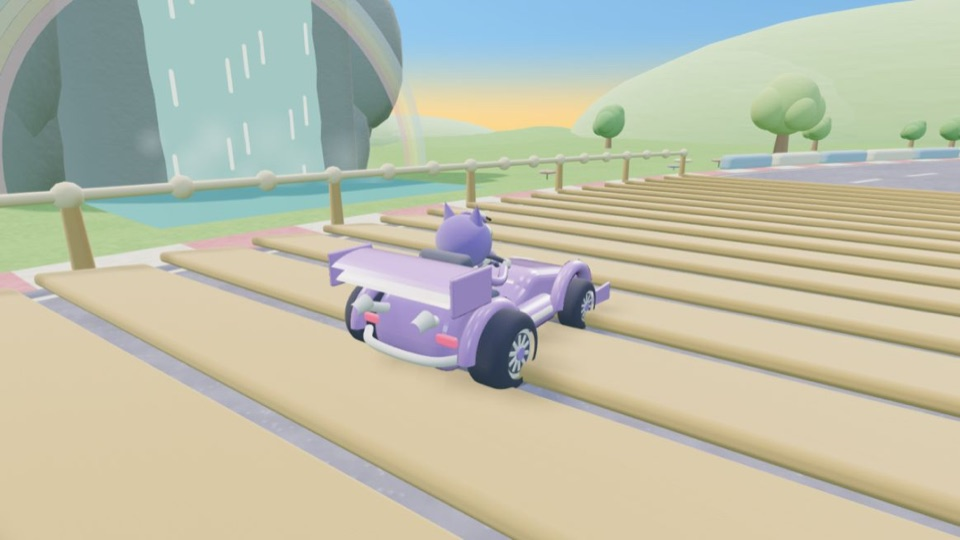
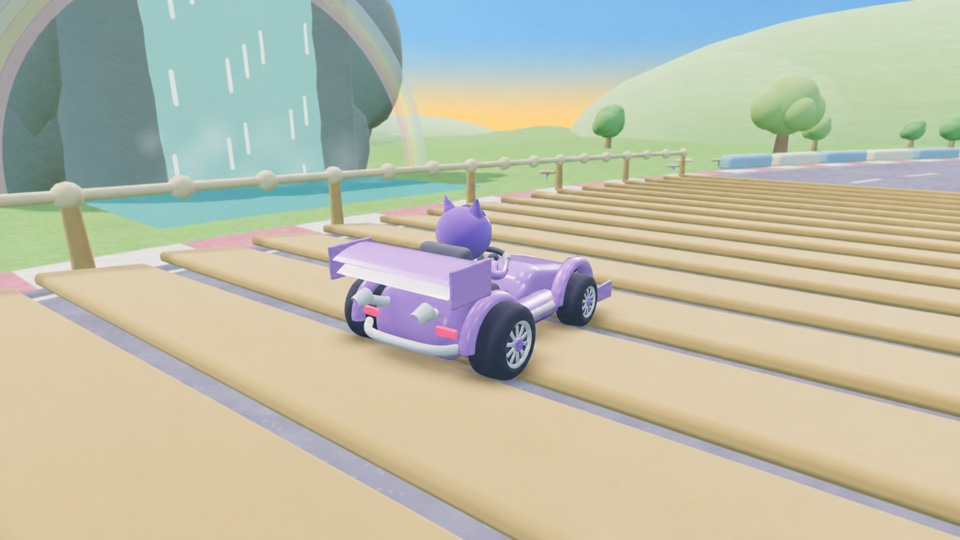
Increase third-class racing challenge and correct preview tyre clearance (#14)

Changed region(s): [[0.3438, 0.3556, 0.6562, 0.7407]]

diff --git a/docs/previews/turbo-meadow.html b/docs/previews/turbo-meadow.html
@@ -20,7 +20,10 @@ const previewIndex=track.bridgeIndex??Math.round(track.N*0.24);
 const s=track.sampleAt(previewIndex),anchor=new THREE.Object3D();anchor.position.copy(s.pos);anchor.lookAt(s.pos.clone().add(s.tangent));anchor.updateMatrixWorld();
 const world=(x,y,z)=>anchor.localToWorld(new THREE.Vector3(x,y,z));
 lighting.sun.position.copy(world(45,75,-30));lighting.sun.target.position.copy(s.pos);
-const kart=buildKart(CHARACTERS[3]);const a=track.sampleAt(previewIndex-5);kart.group.position.copy(a.pos);kart.group.rotation.y=Math.atan2(a.tangent.x,a.tangent.z);scene.add(kart.group);
+const kart=buildKart(CHARACTERS[3]);const a=track.sampleAt(previewIndex-5);kart.group.position.copy(a.pos);
+// The timber deck is centred 0.10 above the road and is 0.22 thick.
+if(track.bridgeIndex !== null) kart.group.position.y += 0.22;
+kart.group.rotation.y=Math.atan2(a.tangent.x,a.tangent.z);scene.add(kart.group);
 const tilePreview=new URLSearchParams(location.search).has('tile');if(tilePreview)document.querySelector('aside').hidden=true;
 let mode=params.get('view')==='track'?'bridge':tilePreview?'kart':'bridge';document.querySelector('#bridge').onclick=()=>mode='bridge';document.querySelector('#kart').onclick=()=>mode='kart';
 function resize(){renderer.setSize(innerWidth,innerHeight,false);camera.aspect=innerWidth/innerHeight;camera.updateProjectionMatrix();}addEventListener('resize',resize);resize();

diff --git a/turbo-tables/js/main.js b/turbo-tables/js/main.js
@@ -275,7 +275,7 @@ function renderEasy() {
   $('tReverse').hidden = junior;
   document.querySelector('.keys').innerHTML = '<kbd>←</kbd> <kbd>→</kbd> steer · <kbd>Space</kbd> item' + (junior ? '' : ' · <kbd>↓</kbd> brake');
   const choice = drivingChoice(setup);
-  $('easyMsg').textContent = ({relaxed:'Gentler speed, stronger steering help and forgiving opponents.',challenging:'Full speed, independent steering and faster opponents.'})[choice] + (junior ? '' : ' Hold brake to slow down.');
+  $('easyMsg').textContent = ({relaxed:'Gentler speed, stronger steering help and forgiving opponents.',progressing:'Faster racing, light steering help and stronger opponents.',challenging:'Full speed, independent steering and faster opponents.'})[choice] + (junior ? '' : ' Hold brake to slow down.');
 }
 function showItemPicture(container, id) {
   const picture = document.createElement('img'); picture.src = `icons/${id}.svg`; picture.alt = ITEMS[id].name;

diff --git a/turbo-tables/js/driving.js b/turbo-tables/js/driving.js
@@ -1,8 +1,9 @@
 // Driving behaviour follows class automatically, without another setup choice.
 export const DRIVING = {
   relaxed: { name: 'Relaxed', speed: 0.82, guidance: 0.3, edgeHelp: 0.35, steering: 0.85, pace: 0.86, skill: 0.68 },
+  progressing: { name: 'Progressing', speed: 0.96, guidance: 0.1, edgeHelp: 0.15, steering: 0.97, pace: 1.03, skill: 0.9 },
   challenging: { name: 'Challenging', speed: 1, guidance: 0, edgeHelp: 0, steering: 1, pace: 1.06, skill: 0.94 },
 };
-export function drivingDefault(level) { return level <= 3 ? 'relaxed' : 'challenging'; }
+export function drivingDefault(level) { return level <= 2 ? 'relaxed' : level === 3 ? 'progressing' : 'challenging'; }
 export function drivingChoice(setup) { return drivingDefault(setup.levelId); }
 export function itemAction(id) { return ({ball:'Shoot',jelly:'Drop',rocket:'Boost',bubble:'Protect'})[id] || 'Use'; }

diff --git a/sw.js b/sw.js
@@ -1,4 +1,4 @@
-const CACHE = "maths-quest-everyone-v80";
+const CACHE = "maths-quest-everyone-v81";
 const APP_SHELL = [
   "./",
   "./index.html",
